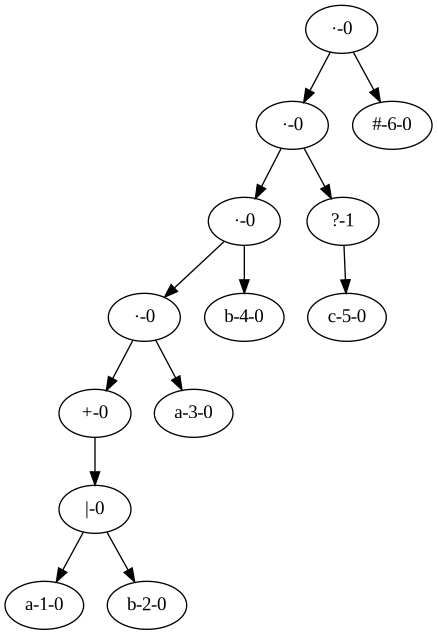
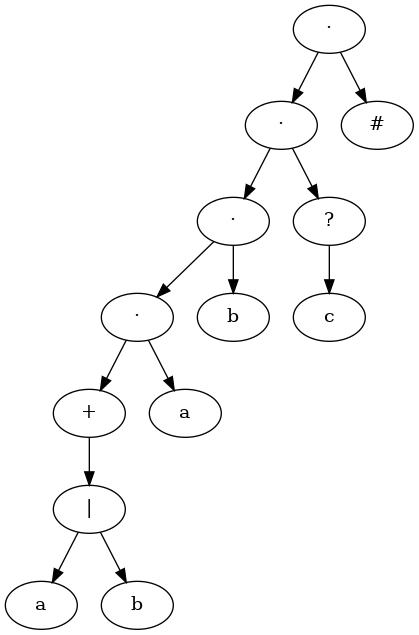
Preparing automata

diff --git a/src/models/Tree.java b/src/models/Tree.java
@@ -9,14 +9,18 @@ public class Tree {
     private Node<PairData<String, String>> root;
     private ArrayList<String> transitions;  
     private int count;
-;    private List<String> signsAvoid = Arrays.asList("+", "*", "?", "|", "·");
+    private List<String> signsAvoid = Arrays.asList("+", "*", "?", "|", "·");
 
-    public Tree(){
+    public Tree(ArrayList<PairData<String, String>> regexPostfix){
         transitions = new ArrayList<String>();        
-        count = 0;
+        count = 0;        
+        createSyntaxTree(regexPostfix); 
+        nullableTraversal(root); 
+        firstposAndLastPosTraversal(root);
+        generateTransitions(root);
     }
 
-    public void createSyntaxTree(ArrayList<PairData<String, String>> regexPostfix){
+    private void createSyntaxTree(ArrayList<PairData<String, String>> regexPostfix){
         Stack<Node<PairData<String, String>>> stack = new Stack<Node<PairData<String, String>>>();
         for (PairData<String, String> s : regexPostfix) {
             String symbol = s.second;
@@ -42,48 +46,126 @@ public class Tree {
     }  
 
     // * ---> GETTERS
-    public Node<PairData<String, String>> getRoot() {
-        return root;
-    }
-
     public ArrayList<String> getTransitions() {
         return transitions;
     }
 
     // * ---> METODOS
-    public void postorderTraversal(Node<PairData<String, String>> node){
+    private void nullableTraversal(Node<PairData<String, String>> node){
         if(node != null){
-            postorderTraversal(node.left);
-            postorderTraversal(node.right);
-
-            // Vamos a determinar si este es un null o no
-            System.out.print(node.value.second + " "); // Visitar el nodo
-
-            if(!signsAvoid.contains(node.value.second)){ // Nodo normal
-                node.nullable = 0; // False
+            nullableTraversal(node.left);
+            nullableTraversal(node.right);
+            
+            // * => Determinar todos los nullables
+            
+            if(!signsAvoid.contains(node.value.second)){ // False
+                node.nullable = 0; 
             }
-            else if(node.value.second.equals("|")){
+            else if(node.value.second.equals("E")){ // True
+                node.nullable = 1;
+            }
+            else if(node.value.second.equals("|")){ // nullable(c1) | nullable(c2)
                 int c1 = node.left.nullable;
                 int c2 = node.right.nullable;
                 node.nullable = (c1 == 1 || c2 == 1) ? 1 : 0;
             }
-            else if(node.value.second.equals("·")){
+            else if(node.value.second.equals("·")){ // nullable(c1) & nullable(c2)
                 int c1 = node.left.nullable;
                 int c2 = node.right.nullable;
                 node.nullable = (c1 == 1 && c2 == 1) ? 1 : 0;
             }
-            else if(node.value.second.equals("+")){
-                node.nullable = (node.left.value.second.equals("E")) ? 1 : 0;
+            else if(node.value.second.equals("*") || node.value.second.equals("?")){ // True
+                node.nullable = 1;                
             }
-            else if(node.value.second.equals("?")){
-                node.nullable = (node.left.value.second.equals("E")) ? 0 : 1;
+            else if(node.value.second.equals("+")){
+                node.nullable = (node.left.nullable == 1) ? 1 : 0;
+            }
+        }
+    }
+
+    private void firstposAndLastPosTraversal(Node<PairData<String, String>> node){
+        if(node != null){
+            firstposAndLastPosTraversal(node.left);
+            firstposAndLastPosTraversal(node.right);
+
+            // Empezar a obtener las primeras posiciones
+            if(!signsAvoid.contains(node.value.second)){ // i
+                if (node.value.second.equals("#")){ // Hoja
+
+                }
+                else if(node.value.second.equals("E")){ // Epsilon
+
+                } 
+                else{ // Simbolo normal
+                    node.addFirstPos(node.pos);
+                    node.addLastPos(node.pos);
+                }
+            }
+            else if(node.value.second.equals("|")){ // firstPos(c1) U firstPos(c2)
+                // -> Realizar union de FIRST POSES
+                for (int firstPos : node.left.getFirstPoses()) {
+                    node.addFirstPos(firstPos);
+                }
+                for (int firstPos : node.right.getFirstPoses()) {
+                    node.addFirstPos(firstPos);
+                }
+                // -> Realizar union de LAST POSES
+                for (int firstPos : node.left.getLastPoses()) {
+                    node.addLastPos(firstPos);
+                }
+                for (int firstPos : node.right.getLastPoses()) {
+                    node.addLastPos(firstPos);
+                }
+            }
+            else if(node.value.second.equals("·")){ // si nullable c1 == true: Union, sino firstPOs(c1)
+                // -> Realizar operacion de FIRST POSES
+                if(node.left.nullable == 1){ // Union
+                    for (int firstPos : node.left.getFirstPoses()) { // c1
+                        node.addFirstPos(firstPos);
+                    }
+                    for (int firstPos : node.right.getFirstPoses()) { // c2
+                        node.addFirstPos(firstPos);
+                    }
+                }
+                else{ // Copy all c1 (left)
+                    node.firstpos = node.left.firstpos;
+                }
+                // -> Realizar operacion de LAST POSES
+                if(node.right.nullable == 1){ // Union
+                    for (int firstPos : node.left.getLastPoses()) { // c1
+                        node.addLastPos(firstPos);
+                    }
+                    for (int firstPos : node.right.getLastPoses()) { // c2
+                        node.addLastPos(firstPos);
+                    }
+                }
+                else{ // Copy all c2 (right)
+                    node.lastpos = node.right.lastpos;
+                }
+            }
+            else if(node.value.second.equals("*") || node.value.second.equals("+") || node.value.second.equals("?")){ // firstPos(c1)
+                node.firstpos = node.left.firstpos;
+                node.lastpos = node.left.lastpos;
             }
         }
     }
     
-    public void generateTransitions(Node<PairData<String, String>> node){        
+    private void generateTransitions(Node<PairData<String, String>> node){        
         if(node != null){        
             String information = node.value.second;
+            // System.out.println("=================================");
+            // System.out.println("==> " + node.value.second + " | POS: " + node.pos);
+            // System.out.println("NULLABLE: " + node.nullable);
+            // System.out.println("FIRST_POS:");
+            // for (int num : node.getFirstPoses()) {
+            //     System.out.print(num + ",");
+            // }
+            // System.out.println("\nLAST_POS:");
+            // for (int num : node.getLastPoses()) {
+            //     System.out.print(num + ",");
+            // }
+            // System.out.println("");
+
             // String information = (node.invalidPos()) ?  node.value.second : node.value.second + "-" + node.pos;
             // String information = (node.invalidPos()) ? node.value.second + "-" + node.nullable: node.value.second + "-" + node.pos + "-" + node.nullable;
             transitions.add(node.value.first + " [label=\"" + information + "\"];");

diff --git a/src/algorithms/DirectDFA.java b/src/algorithms/DirectDFA.java
@@ -2,54 +2,21 @@ package algorithms;
 
 import models.State;
 import models.Types;
-import models.BTreePrinter;
+// import models.BTreePrinter;
 import models.DFA;
-import models.Symbol;
-import models.Tree;
-import models.SyntaxTree;
+// import models.Symbol;
+// import models.Tree;
+// import models.SyntaxTree;
 import models.PairData;
+import models.Tree;
 
 import java.util.ArrayList;
 
-import controllers.AdminFiles;
-
 public class DirectDFA {
-    public static DFA regularExpressionToDFA(String regularExpression){
-        // Expression regular de forma extendida
-        regularExpression += "#";
-        regularExpression += "·";
+    public static DFA regularExpressionToDFA(Tree regexTree){
+        // Obtener 
         
-        ArrayList<PairData<String, String>> regexExpression = new ArrayList<PairData<String, String>>();
-        int idCounter = 0;        
-        for (int i = 0; i < regularExpression.length(); i++) {
-            String string = regularExpression.charAt(i) + "";
-            regexExpression.add(new PairData<String,String>("n"+idCounter, string));
-            idCounter++;
-        }
-        
-        // Vamos a crear el arbol
-        Tree regexTree = new Tree();
-        regexTree.createSyntaxTree(regexExpression);
-        
-        // Obtener nullable, firstPos, lastPos
-        regexTree.postorderTraversal(regexTree.getRoot());
-
-        regexTree.generateTransitions(regexTree.getRoot());
-
-        // Solo por fines autodidactas personales imprimire el arbol para mi
-        ArrayList<String> transitionsTree = regexTree.getTransitions();
-        String scriptTree = AdminFiles.readContentTree(transitionsTree);
-        String fileSintaxTree = "docs/SintaxTree.dot";
-        if(!AdminFiles.writeFileCode(scriptTree, fileSintaxTree)){
-            System.out.println("No se pudo guardar ni sobreescribir el archivo .dot");
-            return null;
-        }
-        AdminFiles.createImgDot(fileSintaxTree, "img/resultsSintaxTreeRegex.png");
-
-        // Vamos a implementar los nullabes
-        
-
-        // Empezar a implementar el algoritmo
+        // Empezar a construir el automata
         DFA dfa = new DFA(new State(0, Types.Initial));
         
         return dfa;

diff --git a/src/Yal.java b/src/Yal.java
@@ -3,6 +3,8 @@ import controllers.AdminFiles;
 import controllers.YalChecker;
 import models.Tree;
 import models.PairData;
+import models.DFA;
+import algorithms.DirectDFA;
 import algorithms.ShuntingYardAlgorithm;
 
 // Importar librerias de java framework collections
@@ -71,12 +73,13 @@ public class Yal {
             regexExpression.add(new PairData<String,String>("n"+idCounter, string));
             idCounter++;
         }
+        regexExpression.add(new PairData<String,String>("n"+idCounter, "#"));
+        idCounter++;
+        regexExpression.add(new PairData<String,String>("n"+idCounter, "·"));
         System.out.println("");
 
         // * ====> Obtener el arbol sintatico
-        Tree regexTree = new Tree();
-        regexTree.createSyntaxTree(regexExpression);
-        regexTree.generateTransitions(regexTree.getRoot());
+        Tree regexTree = new Tree(regexExpression);
         
         ArrayList<String> transitionsTree = regexTree.getTransitions();
         String scriptTree = AdminFiles.readContentTree(transitionsTree);
@@ -86,5 +89,13 @@ public class Yal {
             return;
         }
         AdminFiles.createImgDot(fileSintaxTree, "img/resultsSintaxTree.png");
+
+        // * ====> Crear un automata
+        DFA dfa = DirectDFA.regularExpressionToDFA(regexTree);
+
+        
+        // * ====> Crear el scanner con todos los datos generados
+        // String javaProgram = "docs/scanner.java";
+        
     }
 }

diff --git a/src/Main.java b/src/Main.java
@@ -6,6 +6,10 @@ import controllers.AdminFiles;
 import controllers.SyntaxChecker;
 import models.NFA;
 import models.DFA;
+import models.PairData;
+import models.Tree;
+
+import java.util.ArrayList;
 
 /**
  * <h1>Diseño De Lenguajes de Programacion - UVG</h1>
@@ -102,7 +106,21 @@ public class Main {
         // * ===========================================================================================
 
         System.out.println("\nConstruccion afd direct (y arbol)");
-        DFA dfaDirect = DirectDFA.regularExpressionToDFA(rPostfix);
+
+        ArrayList<PairData<String, String>> regexExpression = new ArrayList<PairData<String, String>>();
+        int idCounter = 0;        
+        for (int i = 0; i < rPostfix.length(); i++) {
+            String string = rPostfix.charAt(i) + "";
+            regexExpression.add(new PairData<String,String>("n"+idCounter, string));
+            idCounter++;
+        }
+        regexExpression.add(new PairData<String,String>("n"+idCounter, "#"));
+        idCounter++;
+        regexExpression.add(new PairData<String,String>("n"+idCounter, "·"));
+        
+        Tree treePostfix = new Tree(regexExpression);
+        
+        DFA dfaDirect = DirectDFA.regularExpressionToDFA(treePostfix);
         if(dfaDirect == null){
             System.out.println("Un error ocurrio con el AFD directo :)");
             return;

diff --git a/src/models/Node.java b/src/models/Node.java
@@ -91,6 +91,16 @@ public class Node<E> {
     }
 
     // -> Metodos
+    public void addFirstPos(int number){
+        if(firstpos.contains(number)) return;
+        firstpos.add(number);
+    }
+
+    public void addLastPos(int number){
+        if(lastpos.contains(number)) return;
+        lastpos.add(number);
+    }
+    
     public String traverse(){
         String information = "";
 

diff --git a/src/models/Automata.java b/src/models/Automata.java
@@ -8,7 +8,8 @@ import java.util.Stack;
 
 abstract public class Automata {
     // Atributos
-    protected State stateInitial;    
+    protected State stateInitial;
+    protected List<State> statesFinal;    
     protected List<State> states;
     protected List<Symbol> symbols;
     protected List<Transition> transitions;

diff --git a/src/models/DFA.java b/src/models/DFA.java
@@ -7,9 +7,6 @@ import java.util.Stack;
 import java.util.HashSet;
 
 public class DFA extends Automata {
-    // Atributos
-    private List<State> statesFinal;
-
     // Constructor
     public DFA(State stateInitial){
         super(stateInitial);
